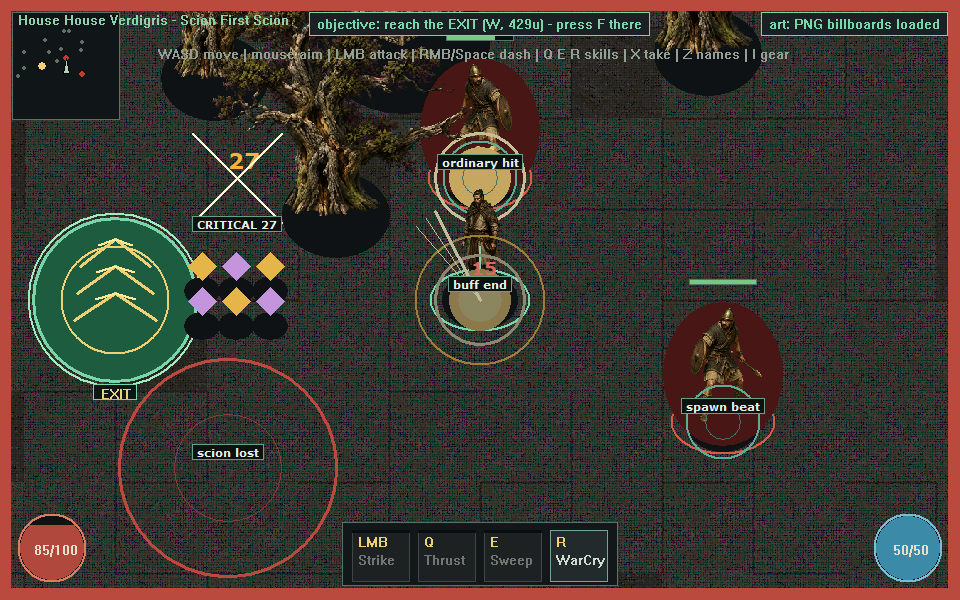
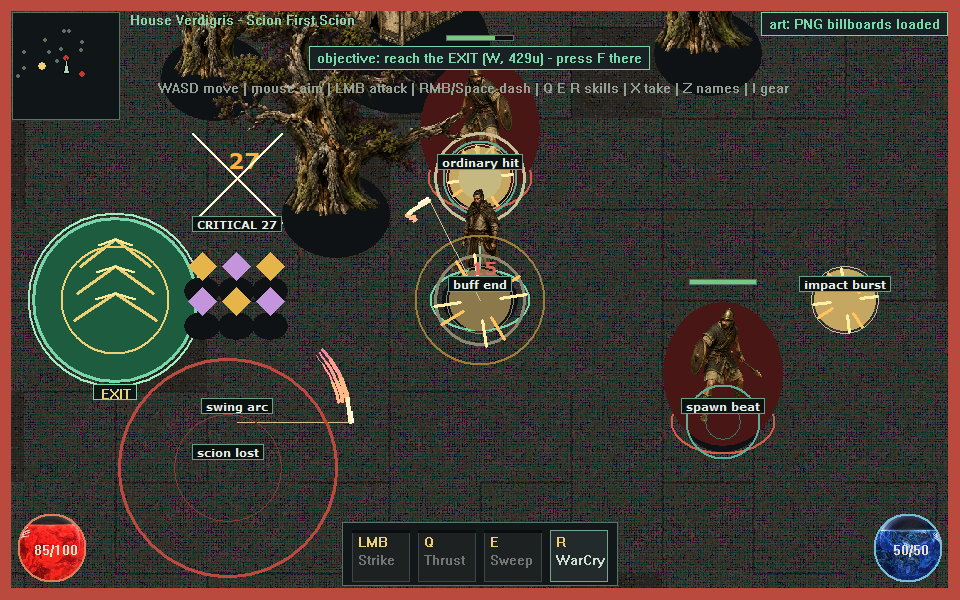
combat presentation: multi-band swing arc fan with trail, spark-burst impacts, collapse death rings; staged vfx capture beats with assertions

diff --git a/native/client/main.cpp b/native/client/main.cpp
@@ -1747,17 +1747,55 @@ void draw_effect(HDC dc, const Camera& camera, const RECT& bounds, const EffectF
     case EffectFx::Kind::Swing: {
       rl.push_back({render::Op::Swing, static_cast<double>(base.x),
                     static_cast<double>(base.y)});
-      // A readable melee arc sweeping toward the aim angle, drawn flat on the
-      // top-down ground plane.
-      const int radius = static_cast<int>(kTileUnits * 1.1 * base.scale);
-      const COLORREF color = fade_to_background(RGB(226, 220, 180), life);
+      // Owner Demo combat presentation: a filled arc fan sweeping toward the
+      // aim angle with a motion trail, replacing the three-line scratch.
+      // Deterministic: geometry derives only from fx.age/angle. Colors stay
+      // self-luminous through the lifetime so the sweep reads on dark ground.
+      const int radius = static_cast<int>(kTileUnits * 1.25 * base.scale);
       const double spread = kPi * 0.45;
-      const double sweep = fx.angle - spread * 0.5 + spread * grow;
-      for (int i = 0; i < 3; ++i) {
-        const double a = sweep - i * 0.12;
-        const int x1 = base.x + static_cast<int>(std::cos(a) * radius);
-        const int y1 = base.y + static_cast<int>(std::sin(a) * radius);
-        draw_line(dc, base.x, base.y, x1, y1, color, i == 0 ? 3 : 1);
+      const double arc_start = fx.angle - spread * 0.5;
+      const double arc_head = arc_start + spread * grow;
+      auto arc_polyline = [&](double a0, double a1, int r, COLORREF color,
+                              int width) {
+        const int steps =
+            std::max(2, static_cast<int>(std::fabs(a1 - a0) * 18.0));
+        double previous = a0;
+        for (int s = 1; s <= steps; ++s) {
+          const double a = a0 + (a1 - a0) * s / steps;
+          draw_line(dc,
+                    base.x + static_cast<int>(std::cos(previous) * r),
+                    base.y + static_cast<int>(std::sin(previous) * r),
+                    base.x + static_cast<int>(std::cos(a) * r),
+                    base.y + static_cast<int>(std::sin(a) * r), color, width);
+          previous = a;
+        }
+      };
+      // Trail: five warm arc bands behind the leading edge, drawn at three
+      // concentric radii so the sweep reads as a fan of steel. Dimming is by
+      // band index only; the whole fan vanishes at end of ttl.
+      for (int band = 5; band >= 1; --band) {
+        const double head_back = grow - 0.14 * band;
+        if (head_back <= 0.0) continue;
+        const double a0 = arc_start + spread * std::max(0.0, head_back - 0.14);
+        const double a1 = arc_start + spread * head_back;
+        const int band_width = std::max(1, 6 - band);
+        const int g = 210 - band * 26;
+        const COLORREF band_color = RGB(255, g, 120 + band * 14);
+        arc_polyline(a0, a1, radius, band_color, band_width);
+        if (radius > 10)
+          arc_polyline(a0, a1, radius - 5, band_color, std::max(1, band_width - 1));
+        if (radius > 18)
+          arc_polyline(a0, a1, radius - 9, band_color, std::max(1, band_width - 2));
+      }
+      // Leading edge: bright thick arc + hot inner edge + radial whoosh.
+      {
+        const double a0 = std::max(arc_start, arc_head - 0.22);
+        arc_polyline(a0, arc_head, radius, RGB(255, 242, 196), 4);
+        arc_polyline(std::max(arc_start, arc_head - 0.10), arc_head,
+                     radius + 3, RGB(255, 252, 232), 2);
+        const int tip_x = base.x + static_cast<int>(std::cos(arc_head) * radius);
+        const int tip_y = base.y + static_cast<int>(std::sin(arc_head) * radius);
+        draw_line(dc, base.x, base.y, tip_x, tip_y, RGB(214, 190, 140), 1);
       }
       break;
     }
@@ -1791,16 +1829,53 @@ void draw_effect(HDC dc, const Camera& camera, const RECT& bounds, const EffectF
     case EffectFx::Kind::Impact: {
       rl.push_back({render::Op::Impact, static_cast<double>(base.x),
                     static_cast<double>(base.y)});
-      const int r = std::max(4, static_cast<int>(kTileUnits * 0.35 * base.scale));
-      fill_ellipse(dc, base.x, base.y, r, r, fade_to_background(RGB(255, 214, 120), life));
+      // Owner Demo combat presentation: flash core + deterministic eight-spark
+      // burst. Spark geometry derives only from fx.angle/age, so captures
+      // stay reproducible.
+      const int core = std::max(4, static_cast<int>(kTileUnits * 0.35 * base.scale));
+      fill_ellipse(dc, base.x, base.y, core, core,
+                   fade_to_background(RGB(255, 214, 120), life));
+      if (life > 0.35)
+        ring_ellipse(dc, base.x, base.y, core + 3, core + 3,
+                     fade_to_background(RGB(255, 244, 200), life), 1);
+      const double burst = 1.0 - life;  // 0..1 outward growth
+      for (int spark = 0; spark < 8; ++spark) {
+        const double a =
+            fx.angle + spark * (2.0 * kPi / 8.0) + (spark % 2 ? 0.22 : -0.14);
+        const double inner = kTileUnits * (0.12 + burst * 0.22) * base.scale;
+        const double outer = kTileUnits * (0.2 + burst * 0.62) * base.scale;
+        const COLORREF color =
+            spark % 2 ? RGB(255, 196, 96) : RGB(255, 238, 168);
+        draw_line(dc,
+                  base.x + static_cast<int>(std::cos(a) * inner),
+                  base.y + static_cast<int>(std::sin(a) * inner),
+                  base.x + static_cast<int>(std::cos(a) * outer),
+                  base.y + static_cast<int>(std::sin(a) * outer), color, 3);
+      }
       break;
     }
     case EffectFx::Kind::DeathRing: {
       rl.push_back({render::Op::Death, static_cast<double>(base.x),
                     static_cast<double>(base.y)});
+      // Owner Demo combat presentation: expanding ring plus a collapsing
+      // inner ring and falling motes so defeat reads as an event.
       const int rx = static_cast<int>(kTileUnits * (0.3 + grow * 1.5) * base.scale);
       ring_ellipse(dc, base.x, base.y, rx, rx,
                    fade_to_background(RGB(214, 118, 86), life), 2);
+      const int inner = static_cast<int>(rx * (1.0 - grow * 0.6));
+      if (inner > 3)
+        ring_ellipse(dc, base.x, base.y, inner, inner,
+                     fade_to_background(RGB(150, 70, 52), life), 1);
+      for (int mote = 0; mote < 6; ++mote) {
+        const double a = mote * (2.0 * kPi / 6.0) + 0.4;
+        const double drop = grow * kTileUnits * 0.9 * base.scale;
+        const int mote_x = base.x + static_cast<int>(std::cos(a) * rx * 0.7);
+        const int mote_y =
+            base.y + static_cast<int>(std::sin(a) * rx * 0.4) + static_cast<int>(drop);
+        const int r = std::max(1, static_cast<int>(kTileUnits * 0.07 * base.scale));
+        fill_ellipse(dc, mote_x, mote_y, r, r,
+                     fade_to_background(RGB(214, 118, 86), life));
+      }
       break;
     }
     case EffectFx::Kind::Dust: {
@@ -6437,6 +6512,24 @@ int scenario_animation_vfx_phase_a() {
       lost.wy = lost_wy;
       lost.ttl = phase_a::kScionLostRingTtlTicks;
       capture_state.effects.push_back(lost);
+      // Owner Demo combat presentation beats: a mid-sweep swing arc with its
+      // motion trail and an impact burst, staged at fixed ages so the capture
+      // proves the treatments. Presentation-only injections.
+      EffectFx staged_swing;
+      staged_swing.kind = EffectFx::Kind::Swing;
+      staged_swing.wx = static_cast<double>(base.x - 2 * reach);
+      staged_swing.wy = static_cast<double>(base.y + reach);
+      staged_swing.angle = 0.0;  // sweeping east
+      staged_swing.age = 4;
+      staged_swing.ttl = 8;
+      capture_state.effects.push_back(staged_swing);
+      EffectFx staged_impact;
+      staged_impact.kind = EffectFx::Kind::Impact;
+      staged_impact.wx = static_cast<double>(base.x + 3 * reach);
+      staged_impact.wy = static_cast<double>(base.y);
+      staged_impact.age = 2;
+      staged_impact.ttl = 8;
+      capture_state.effects.push_back(staged_impact);
     }
     // In-world legend so each treatment is identifiable without guessing.
     capture_state.beat_legend = {
@@ -6444,6 +6537,8 @@ int scenario_animation_vfx_phase_a() {
         {"ordinary hit", {base.x, base.y - reach}},
         {"CRITICAL 27", {base.x - 2 * reach, base.y - reach / 2}},
         {"buff end", {base.x, base.y}},
+        {"swing arc", {base.x - 2 * reach, base.y + reach}},
+        {"impact burst", {base.x + 3 * reach, base.y}},
         {"scion lost",
          {static_cast<int>(std::lround(lost_wx)),
           static_cast<int>(std::lround(lost_wy))}},
@@ -6452,6 +6547,10 @@ int scenario_animation_vfx_phase_a() {
     scenario_present(capture_state);
     scenario_check(count_kind(capture_state, EffectFx::Kind::Materialize) >= 1,
                    "animation-vfx-phase-a: capture frame holds a live materialization beat");
+    scenario_check(count_kind(capture_state, EffectFx::Kind::Swing) >= 1,
+                   "animation-vfx-phase-a: capture frame holds a mid-sweep swing arc");
+    scenario_check(count_kind(capture_state, EffectFx::Kind::Impact) >= 1,
+                   "animation-vfx-phase-a: capture frame holds an impact burst");
     scenario_check(render_list_has_label(capture_state.render_list, render::Op::Damage,
                                          "monster") ||
                        render_list_has_label(capture_state.render_list, render::Op::Damage,
